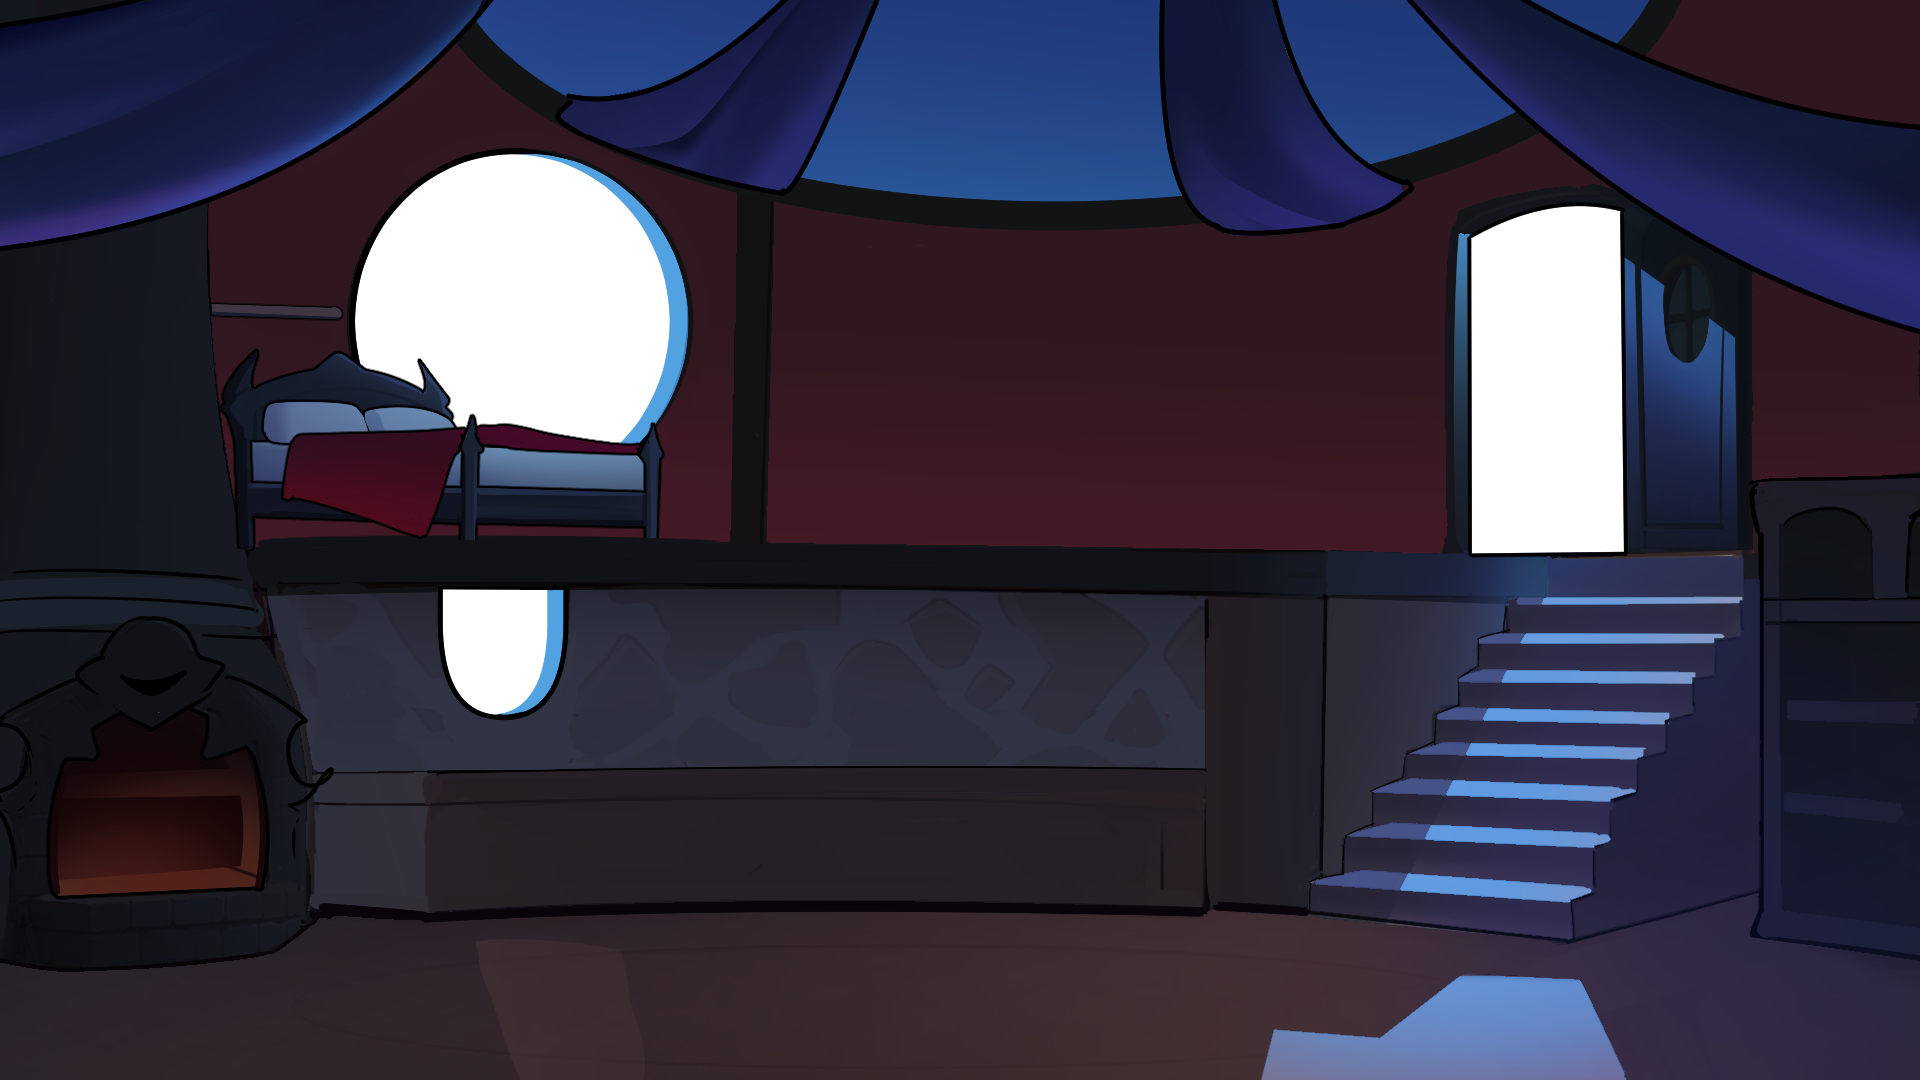
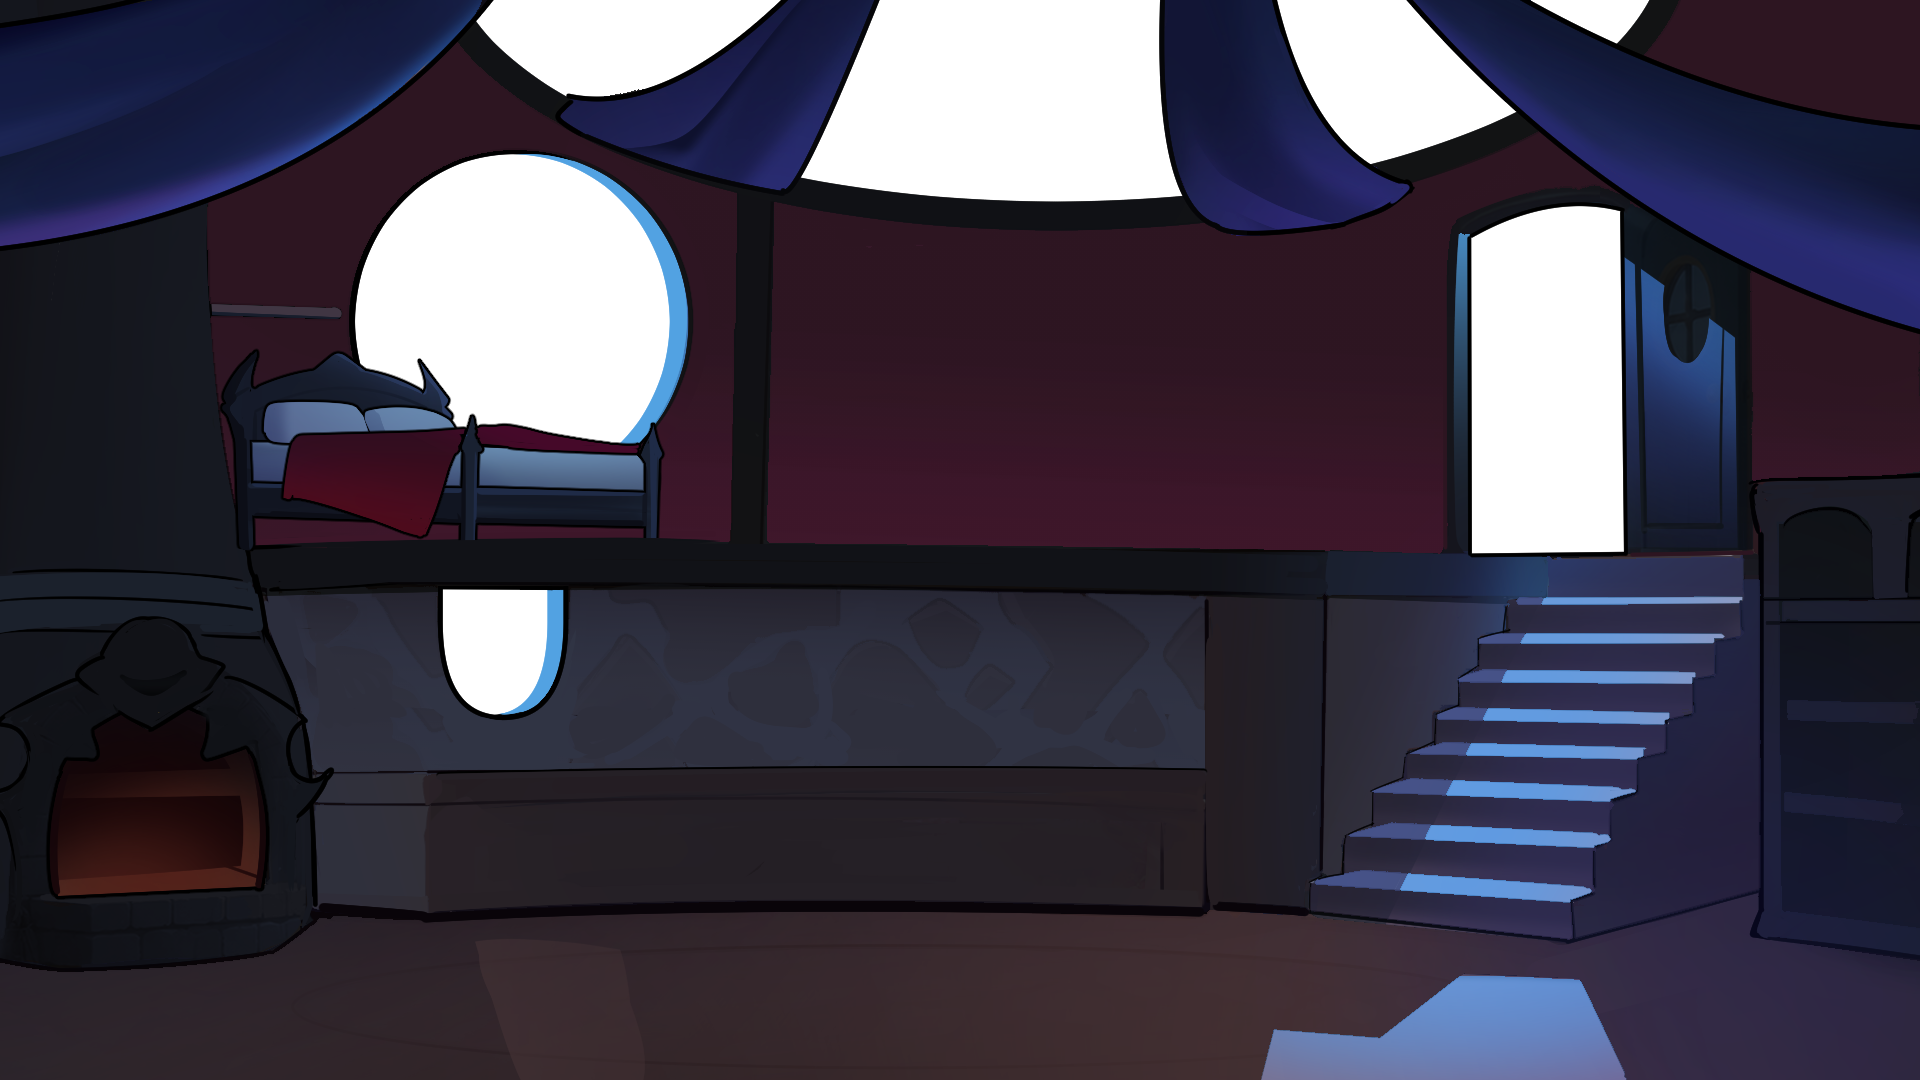
0.50.86-6

diff --git a/PATCH_NOTES.md b/PATCH_NOTES.md
@@ -1049,3 +1049,10 @@ CardBattle.gd (1909 строк) разрезан, теперь это «дири
 - **Картинки дома переехали в `assets/hub/night_hub/`** — пути в Hub.tscn поправлены.
 - **День и ночь — заготовка** (`scripts/home/DayCycle.gd`): время суток и номер дня хранятся в сохранении (счётчики `day_phase`, `day_number`), по умолчанию — ночь. `DayCycle.advance()`: день -> ночь -> следующий день. Дом при входе берёт картинки из папки времени суток: дневные положить в `assets/hub/day_hub/` с теми же именами файлов — подхватятся сами, чего нет — останется ночное. Заготовка действий: `DayCycle.ACTIONS` (сколько за день / ночь), `spend_action()`, `actions_left()` — пока ни на что не влияет. В админ-панели (F9) — кнопка «Day / night: next».
 - **Ферма: лунный свет из окна на ведьмочку** (`Farm.tscn → World/Moonlight`, `scripts/farm/MoonLight.gd`): мягкие лучи по очереди проявляются и гаснут, в них плавают пылинки-светлячки. Окно, цель, разброс, толщина, яркость, цвет, число пылинок — в инспекторе (видно прямо в редакторе).
+
+## step87 (поверх 0.50.86-5)
+- **Ферма, лунный свет:**
+  - Начало лучей ушло за край экрана: лучи продолжаются назад за окно на `extend_back` пикселей — до окна свет ровный, после окна гаснет к концу.
+  - Два слоя света: `World/MoonlightBack` — за ведьмочкой (между фоном и ней), `World/Moonlight` — перед ней. У каждого свои лучи и блёстки.
+  - Лучи голубее (`color`), блёстки разноцветные: белые и голубые чаще, синие и фиолетовые реже (`mote_colors` / `mote_weights` в инспекторе).
+- **Тени под чибиками выключены** (`ChibiShadow.ENABLED = false` — включить обратно там же).
